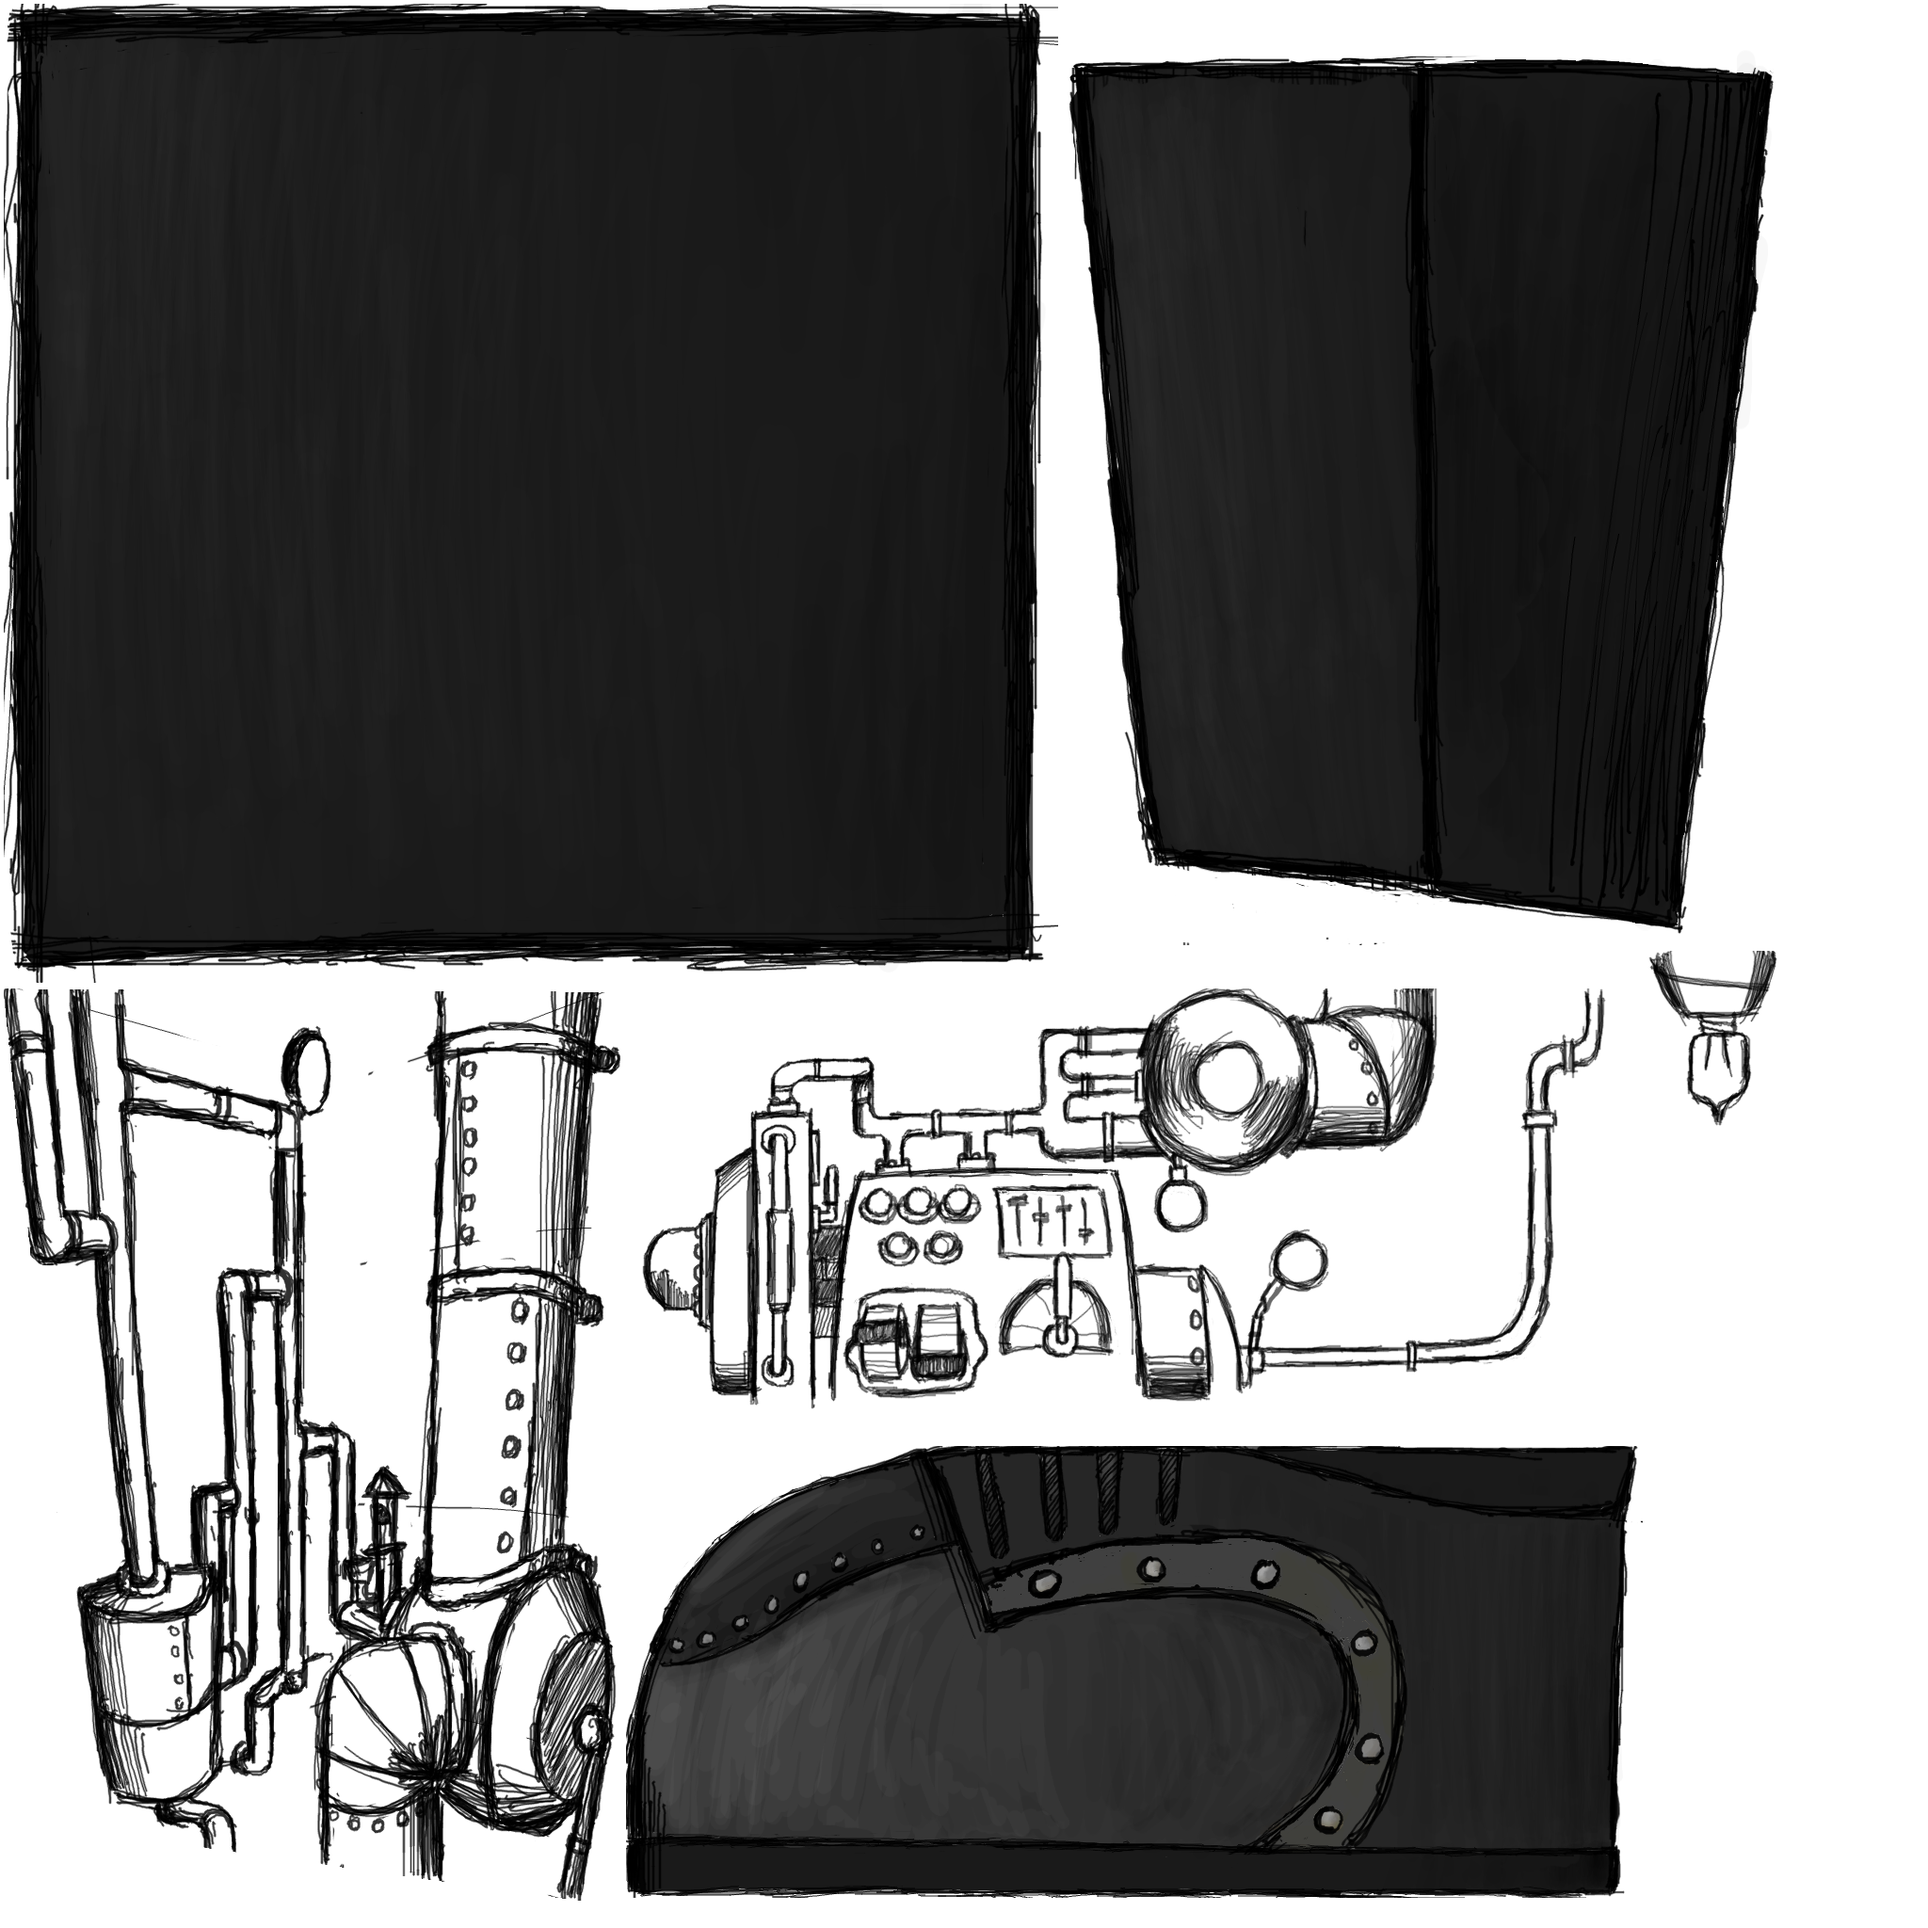
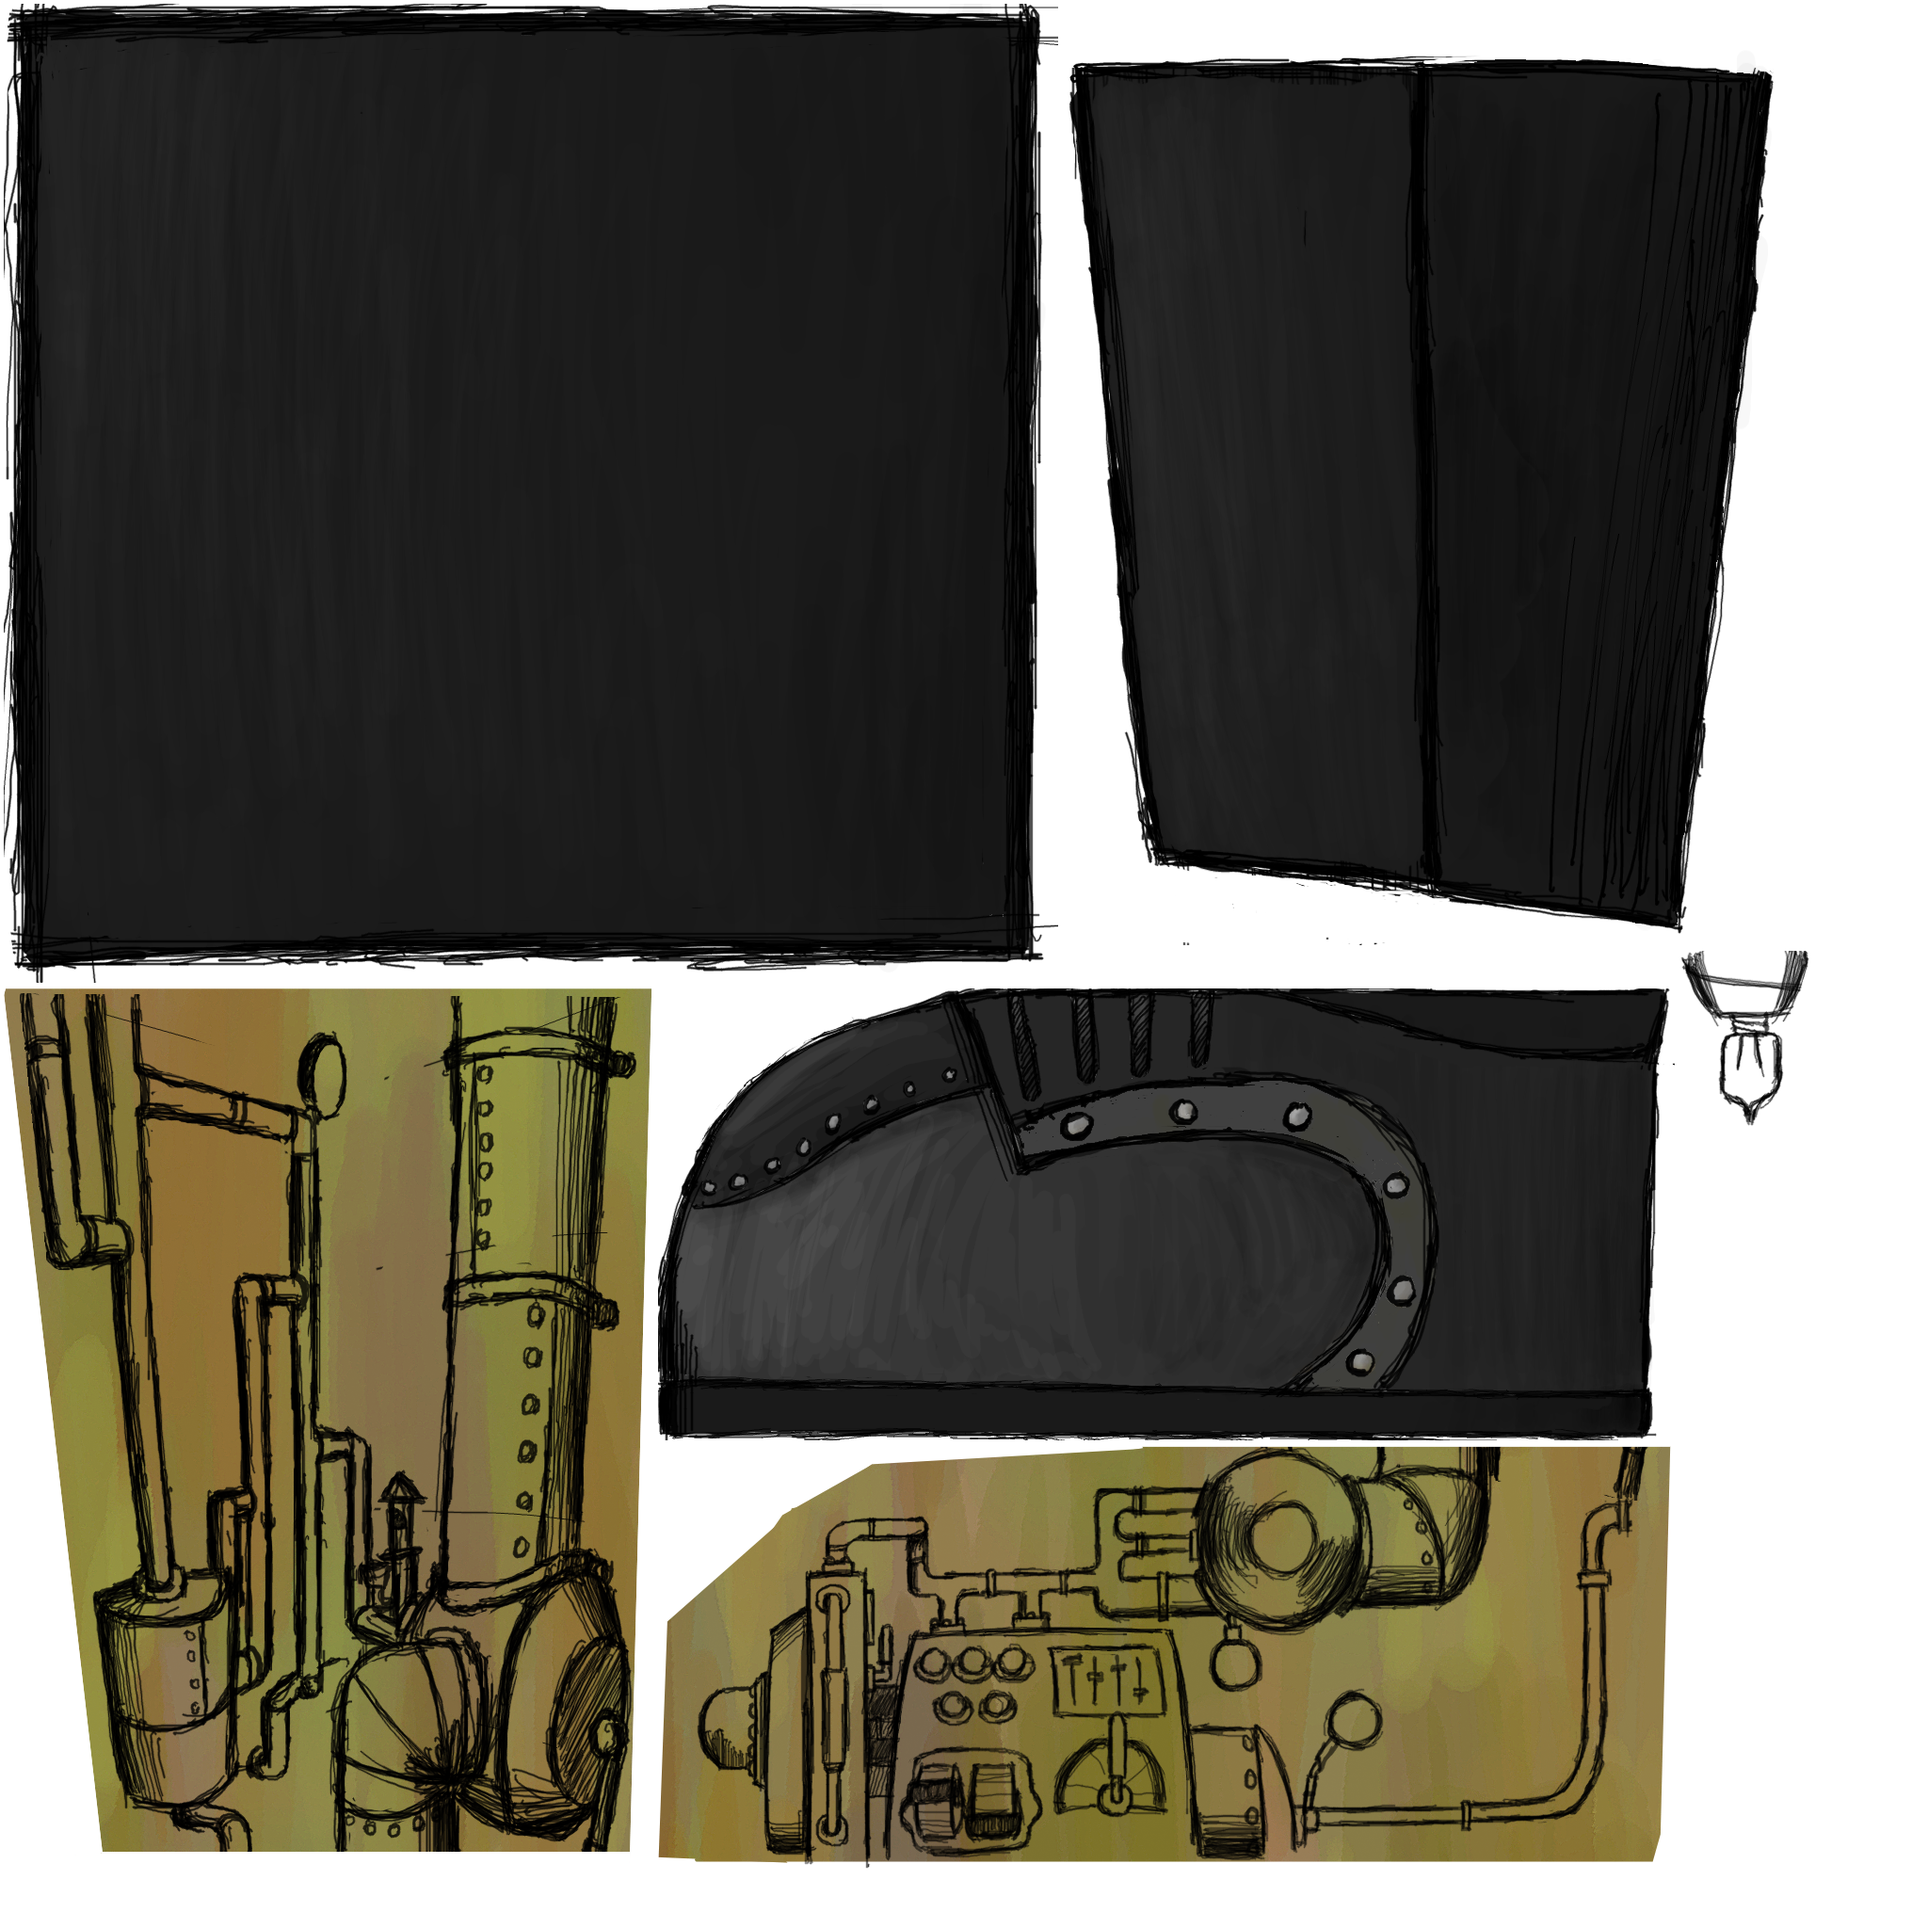
Fixed draw order, removed old background

diff --git a/werescrewed/src/com/blindtigergames/werescrewed/screens/AlphaScreen.java b/werescrewed/src/com/blindtigergames/werescrewed/screens/AlphaScreen.java
@@ -184,11 +184,6 @@ public class AlphaScreen extends Screen {
 		TextureAtlas support_middle_right = WereScrewedGame.manager
 				.getAtlas( "support_middle_right" );
 		TextureAtlas curtains = WereScrewedGame.manager.getAtlas( "curtains" );
-		int numDomes = 10;
-		TextureAtlas[ ] dome = new TextureAtlas[ numDomes ];
-		for ( int i = 1; i <= numDomes; ++i ) {
-			dome[ i - 1 ] = WereScrewedGame.manager.getAtlas( "dome" + i );
-		}
 
 		int max = 2030;
 		int offsetX = 200;
@@ -228,9 +223,9 @@ public class AlphaScreen extends Screen {
 				new Vector2( lightX + 2030, lightY ) );
 
 		// floor
-		bgSkele.addBGDecal( floor_seats.createSprite( "floor_left" ),
+		light_skel.addBGDecal( floor_seats.createSprite( "floor_left" ),
 				new Vector2( floorX, floorY ) );
-		bgSkele.addBGDecal( floor_seats.createSprite( "floor_right" ),
+		light_skel.addBGDecal( floor_seats.createSprite( "floor_right" ),
 				new Vector2( floorX + max, floorY ) );
 
 		// curtains
@@ -269,25 +264,35 @@ public class AlphaScreen extends Screen {
 
 		// works
 		// seats
-		bgSkele.addFGDecal( floor_seats.createSprite( "seats_left" ),
+		light_skel.addFGDecal( floor_seats.createSprite( "seats_left" ),
 				new Vector2( -max + seatsX, seatsY ) );
-		bgSkele.addFGDecal( floor_seats.createSprite( "seats_middle" ),
+		light_skel.addFGDecal( floor_seats.createSprite( "seats_middle" ),
 				new Vector2( 0 + seatsX, seatsY ) );
-		bgSkele.addFGDecal( floor_seats.createSprite( "seats_right" ),
+		light_skel.addFGDecal( floor_seats.createSprite( "seats_right" ),
 				new Vector2( max + seatsX, seatsY ) );
 
-		addBackGroundEntity( bgSkele );
-		addForeGroundEntity( bgSkele );
+		//addBackGroundEntity( bgSkele );
+		//addForeGroundEntity( bgSkele );
+		
 
 		// initBackground( dome, numDomes, domeSliceX, domeSliceY,
 		// 100,100);//-max + seatsX, seatsY );
-		initParallaxBackground( );
+		initParallaxBackground( ); 
 		// level.entityFGList.add(bgSkele);
 		// level.entityBGList.add(bgSkele);
 
 		// level.entityBGList.remove( level.root );
 		// level.entityFGList.remove( level.root );
-
+		
+		
+		addBackGroundSkeletonToBack( bgSkele );
+		addForeGroundSkeleton( bgSkele );
+		level.skelFGList.remove( light_skel );
+		addForeGroundSkeleton(light_skel);
+		for(Skeleton s:level.skelFGList){
+			Gdx.app.log( "fgList", s.name );
+		}
+		light_skel.setFgFade( false );
 	}
 
 	private void initParallaxBackground( ) {
@@ -319,7 +324,7 @@ public class AlphaScreen extends Screen {
 		e1.sprite = dome.createSprite( "dome_small" );
 		e1.setMoverAtCurrentState( new ParallaxMover( new Vector2( e1
 				.getPositionPixel( ) ), new Vector2( e1.getPositionPixel( )
-				.add( 0f, 512f ) ), 0.0002f, .5f, level.camera, false,
+				.add( 0f, 312f ) ), 0.00005f, .5f, level.camera, false,
 				LinearAxis.VERTICAL ) );
 		level.backgroundRootSkeleton.addLooseEntity( e1 );
 	}
@@ -475,20 +480,20 @@ public class AlphaScreen extends Screen {
 		footPlat6.setGroupIndex( ( short ) -5 );
 
 		// DECALS for Foot / Shin
-		int decalX = -648;// -482;//587
-		int decalY = -654;// -558;//536
+		int decalX = -686;// -482;//587
+		int decalY = -614;// -558;//536
 		Sprite footBG = decals
-				.createSprite( "foot_mechanisms_and_pipes_NOCOLOR" );
-		Sprite legBG = decals.createSprite( "shin_pipes_NOCOLOR" );
+				.createSprite( "foot-interior" );
+		Sprite legBG = decals.createSprite( "shin-interior" );
 		Skeleton foot = ( Skeleton ) LevelFactory.entities.get( "footSkeleton" );
 		foot.addBGDecal( footBG, new Vector2( decalX, decalY ) );
 		footBG.setOrigin( 0f, 0f );
-		foot.addBGDecal( legBG, new Vector2( 400 + decalX, 424 + decalY ) );
+		foot.addBGDecal( legBG, new Vector2( 410 + decalX, 432 + decalY ) );
 
 		addBackGroundEntity( footSkeleton );
 		addForeGroundEntity( footSkeleton );
 		
-		Vector2 footFGPos = new Vector2( decalX - 30, decalY + 10 );
+		Vector2 footFGPos = new Vector2( decalX - 0, decalY -10 );
 		foot.addFGDecal( decals.createSprite( "foot_exterior" ), footFGPos );
 		foot.addFGDecal( decals.createSprite( "shin_exterior" ),
 				footFGPos.cpy( ).add( 400, 386 ) );
@@ -686,6 +691,12 @@ public class AlphaScreen extends Screen {
 		rjd.initialize( leftShoulderSideHatch.body, leftShoulderSkeleton.body,
 				new Vector2( -1748, 5980 ).mul( Util.PIXEL_TO_BOX ) );
 		level.world.createJoint( rjd );
+		
+		
+		TextureAtlas left_arm = WereScrewedGame.manager.getAtlas( "left-arm" );
+		Vector2 pos = new Vector2(-455,-3250);
+		leftShoulderSkeleton.addBGDecal( left_arm.createSprite( "left-arm-bottom" ), pos );
+		leftShoulderSkeleton.addBGDecal( left_arm.createSprite( "left-arm-top" ), pos.cpy().add(0,1721) );
 	}
 
 	private void rightArm( ) {

diff --git a/werescrewed/src/com/blindtigergames/werescrewed/screens/Screen.java b/werescrewed/src/com/blindtigergames/werescrewed/screens/Screen.java
@@ -1,5 +1,7 @@
 package com.blindtigergames.werescrewed.screens;
 
+import java.util.ArrayList;
+
 import com.badlogic.gdx.Gdx;
 import com.badlogic.gdx.Input;
 import com.badlogic.gdx.Input.Keys;
@@ -99,50 +101,72 @@ public class Screen implements com.badlogic.gdx.Screen {
 	}
 
 	protected void addForeGroundSkeleton( Skeleton skel ) {
-		if ( !level.skelFGList.contains( skel ) ) {
-			level.skelFGList.add( 0, skel );
-		}
+//		if ( !level.skelFGList.contains( skel ) ) {
+//			level.skelFGList.add( skel );
+//		}
+		addToSkelList(level.skelFGList,skel,false);
 	}
 	
 	protected void addForeGroundSkeletonToBack( Skeleton skel ) {
-		if ( !level.skelFGList.contains( skel ) ) {
-			level.skelFGList.add( skel );
-		}
+//		if ( !level.skelFGList.contains( skel ) ) {
+//			level.skelFGList.add( skel );
+//		}
+		addToSkelList(level.skelFGList,skel,true);
 	}
 	
 	protected void addBackGroundSkeleton( Skeleton skel ) {
-		if ( !level.skelBGList.contains( skel ) ) {
-			level.skelBGList.add( skel );
-		}
+//		if ( !level.skelBGList.contains( skel ) ) {
+//			level.skelBGList.add( skel );
+//		}
+		addToSkelList(level.skelBGList,skel,false);
 	}
 	
 	protected void addBackGroundSkeletonToBack( Skeleton skel ) {
-		if ( !level.skelBGList.contains( skel ) ) {
-			level.skelBGList.add( 0, skel );
-		}
+//		if ( !level.skelBGList.contains( skel ) ) {
+//			level.skelBGList.add( 0, skel );
+//		}
+		addToSkelList(level.skelBGList,skel,true);
 	}
 	
 	protected void addForeGroundEntity( Entity entity ) {
-		if ( !level.entityFGList.contains( entity ) ) {
-			level.entityFGList.add( entity );
-		}
+//		if ( !level.entityFGList.contains( entity ) ) {
+//			level.entityFGList.add( entity );
+//		}
+		addToEntityList(level.entityFGList,entity,false);
 	}
 	
 	protected void addForeGroundEntityToBack( Entity entity ) {
-		if ( !level.entityFGList.contains( entity ) ) {
-			level.entityFGList.add( 0, entity );
-		}
+//		if ( !level.entityFGList.contains( entity ) ) {
+//			level.entityFGList.add( 0, entity );
+//		}
+		addToEntityList(level.entityFGList,entity,true);
 	}
 	
 	protected void addBackGroundEntity( Entity entity ) {
-		if ( !level.entityBGList.contains( entity ) ) {
-			level.entityBGList.add( entity );
-		}
+//		if ( !level.entityBGList.contains( entity ) ) {
+//			level.entityBGList.add( entity );
+//		}
+		addToEntityList(level.entityBGList,entity,false);
 	}
 	
 	protected void addBackGroundEntityToBack( Entity entity ) {
-		if ( !level.entityBGList.contains( entity ) ) {
-			level.entityBGList.add( 0, entity );
+//		if ( !level.entityBGList.contains( entity ) ) {
+//			level.entityBGList.add( 0, entity );
+//		}
+		addToEntityList(level.entityBGList,entity,true);
+	}
+	
+	private void addToEntityList(ArrayList< Entity > list, Entity e, boolean isBack){
+		if(!list.contains( e )){
+			if(isBack)list.add( 0,e );
+			else list.add(e);
+		}
+	}
+	
+	private void addToSkelList(ArrayList< Skeleton > list, Skeleton s, boolean isBack){
+		if(!list.contains( s )){
+			if(isBack)list.add( 0,s );
+			else list.add(s);
 		}
 	}
 	
